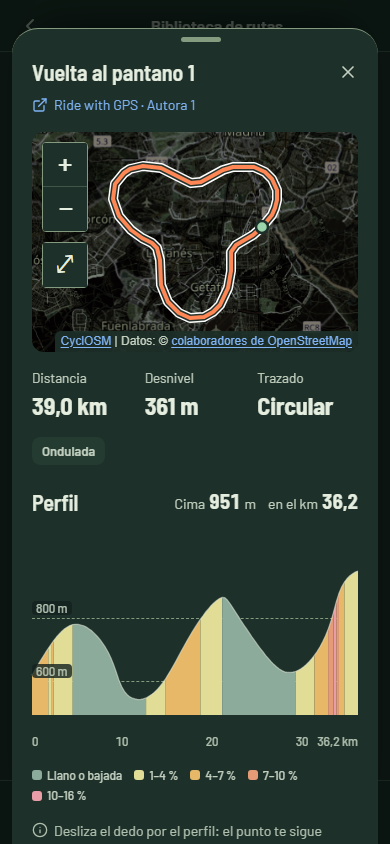
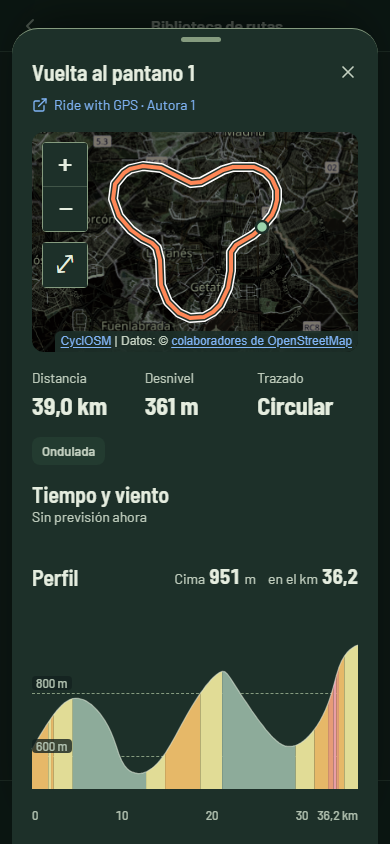
Show weather and wind on library and uploaded routes
The forecast and the wind line only appeared on the loops proposed in
Rutas. The detail of a shared-library route and of a route uploaded from
Wikiloc or another source now show the day and hour pickers, the forecast
at the route start and how much of the route has head, tail and cross
wind. As in Rutas, the forecast service only gets the start rounded to
two decimals.

E2e specs no longer reach the forecast service unless they stub it.

Claude-Session: https://claude.ai/code/session_01Uza2j9oYkbqmSJNfc1zYBA

Changed region(s): [[0.0615, 0.6469, 0.9231, 1.0], [0.0615, 0.5545, 0.6462, 0.6161], [0.6769, 0.5853, 0.9231, 0.6161]]

diff --git a/src/ui/pages/BibliotecaRutas.tsx b/src/ui/pages/BibliotecaRutas.tsx
@@ -15,6 +15,7 @@ import { loadSettings } from '../../settings/settings';
 import { Field } from '../components/Field';
 import { Page } from '../components/Page';
 import { RideMap } from '../components/RideMap';
+import { useRideWeather, WeatherRow, WindLine } from '../routes/WeatherRow';
 import { SegmentedControl } from '../components/SegmentedControl';
 import { Sheet } from '../components/Sheet';
 import { CommonLibrary } from '../library/CommonLibrary';
@@ -52,6 +53,7 @@ export function BibliotecaRutas() {
   const [editKind, setEditKind] = useState<RoadEdit['kind']>('extend');
   const [deleteOpen, setDeleteOpen] = useState(false);
   const [view, setView] = useState<'mis' | 'comun' | null>(null);
+  const weather = useRideWeather(draft?.points[0] ?? null);
   const abort = useRef<AbortController | null>(null);
   const alive = useRef(true);
   const [loadAttempt, setLoadAttempt] = useState(0);
@@ -197,6 +199,9 @@ export function BibliotecaRutas() {
         {draft.sourceUrl ? <a className="btn btn--ghost btn--wrap" href={draft.sourceUrl} target="_blank" rel="noopener noreferrer">Origen: {referenceSite(draft.sourceUrl) === 'wikiloc' ? 'Wikiloc' : 'enlace'}{draft.author ? ` · ${draft.author}` : ''}</a> : draft.author && <p className="help">Autor: {draft.author}</p>}
         <RideMap points={draft.points} label="Mapa de tu ruta de referencia" interactive />
         <ProfileSvg profile={profile} label="Perfil de la ruta importada" axis height={100} />
+        {/* Tiempo en el inicio de la ruta (punto redondeado, como en Rutas) y cómo pega el viento en ella. */}
+        <WeatherRow weather={weather} />
+        <WindLine points={draft.points} weather={weather.hour} />
         <button type="button" className="btn btn--primary btn--block" onClick={download} disabled={busy}><Download className="ic" aria-hidden="true" />Exportar GPX actual</button>
         <SendToGarmin route={draft} />
         {account && <Link className="btn btn--secondary btn--block" to={`/retos/nuevo?ruta=${encodeURIComponent(draft.id)}`}><Swords className="ic" aria-hidden="true" />Retar con esta ruta</Link>}

diff --git a/src/ui/library/CatalogDetail.tsx b/src/ui/library/CatalogDetail.tsx
@@ -17,6 +17,7 @@ import { downloadText } from '../routes/sendGpx';
 import { formatKm, formatMeters } from '../format';
 import { Download, Folder } from '../icons';
 import { OriginLink } from './CatalogCard';
+import { useRideWeather, WeatherRow, WindLine } from '../routes/WeatherRow';
 
 /** Rutas ya descargadas en esta sesión, por id. */
 const cache = new Map<string, LibraryDetail>();
@@ -76,6 +77,7 @@ function DetailBody({ route, account, saved, onSaved }: { route: CatalogRoute; a
   const detail = load.state === 'ready' ? load.detail : null;
 
   const points = useMemo<LatLng[]>(() => detail ? detail.line.map(([lng, lat]) => ({ lat, lng })) : [], [detail]);
+  const weather = useRideWeather(points[0] ?? null);
   const track = useMemo<TrackPoint[]>(() => detail && detail.line.every(p => p.length === 3) ? detail.line.map(([lng, lat, ele], t) => ({ t, lat, lng, ele })) : [], [detail]);
   const parsed = useMemo(() => detail ? toParsedReference({ ...detail, passM: 0 }) : null, [detail]);
   const terrain = terrainFeel(route);
@@ -113,6 +115,14 @@ function DetailBody({ route, account, saved, onSaved }: { route: CatalogRoute; a
           {terrain ? <Chip>{terrain}</Chip> : null}
           {route.unpavedPct !== null ? <Chip>{route.unpavedPct < 1 ? 'Asfalto' : `${Math.round(route.unpavedPct)} % sin asfaltar`}</Chip> : null}
         </div>
+      ) : null}
+      {/* El tiempo en el inicio de la ruta y cómo pega el viento en este recorrido. */}
+      {points.length >= 2 ? (
+        <section className="lib-weather" aria-label="Tiempo y viento">
+          <h3 className="section-title">Tiempo y viento</h3>
+          <WeatherRow weather={weather} />
+          <WindLine points={points} weather={weather.hour} />
+        </section>
       ) : null}
       {detail && track.length >= 2 ? <ElevationProfile points={track} onCursor={onCursor} heading={<h3 className="section-title">Perfil</h3>} /> : null}
       {load.state === 'loading' ? <Skeleton variant="box" height={96} /> : null}

diff --git a/tests/commonLibrary.test.tsx b/tests/commonLibrary.test.tsx
@@ -11,6 +11,8 @@ import { squareRow } from './fixtures/libraryZone';
 import { clearCatalogCache } from '../src/ui/library/CommonLibrary';
 import { clearDetailCache } from '../src/ui/library/CatalogDetail';
 
+// Sin red en las pruebas: la previsión falla en silencio y la fila dice «Sin previsión ahora».
+vi.mock('../src/weather/forecast', async (importOriginal) => ({ ...(await importOriginal<typeof import('../src/weather/forecast')>()), fetchForecast: vi.fn().mockRejectedValue(new Error('sin red')) }));
 vi.mock('../src/ui/components/RideMap', () => ({ RideMap: () => <div>Mapa sintético</div> }));
 vi.mock('../src/ui/components/ElevationProfile', () => ({ ElevationProfile: () => <div>Perfil sintético</div> }));
 vi.mock('../src/ui/components/StartPointCanvas', () => ({ StartPointCanvas: () => <div>Punto sintético</div> }));
@@ -110,6 +112,9 @@ describe('Biblioteca común', () => {
     const dialog = await screen.findByRole('dialog', { name: 'Vuelta al pantano' });
     expect(await within(dialog).findByText('Mapa sintético')).toBeInTheDocument();
     expect(within(dialog).getByText('Perfil sintético')).toBeInTheDocument();
+    // El tiempo y el viento de la ruta: sin previsión lo dice y no rompe el detalle.
+    const weather = within(dialog).getByRole('region', { name: 'Tiempo y viento' });
+    expect(await within(weather).findByText('Sin previsión ahora')).toBeInTheDocument();
     expect(within(dialog).getByRole('link', { name: /Ride with GPS · Ana/ })).toHaveAttribute('href', rows[0].url);
     expect(invoke).toHaveBeenCalledWith('route-sources', expect.objectContaining({ body: { source: 'library', kind: 'library-route', id: rows[0].id } }));
     await user.click(within(dialog).getByRole('button', { name: 'Guardar en Mis rutas' }));

diff --git a/tests/bibliotecaRutas.test.tsx b/tests/bibliotecaRutas.test.tsx
@@ -7,6 +7,8 @@ import { BibliotecaRutas } from '../src/ui/pages/BibliotecaRutas';
 import type { SupabaseClient, User } from '@supabase/supabase-js';
 import { AccountContext } from '../src/auth/AccountBoundary';
 
+// Sin red en las pruebas: la previsión falla en silencio y la fila dice «Sin previsión ahora».
+vi.mock('../src/weather/forecast', async (importOriginal) => ({ ...(await importOriginal<typeof import('../src/weather/forecast')>()), fetchForecast: vi.fn().mockRejectedValue(new Error('sin red')) }));
 vi.mock('../src/ui/components/RideMap', () => ({ RideMap: () => <div>Mapa sintético</div> }));
 vi.mock('../src/ui/components/StartPointCanvas', () => ({ StartPointCanvas: () => <div>Punto sintético</div> }));
 

diff --git a/e2e/accountFixture.ts b/e2e/accountFixture.ts
@@ -12,6 +12,8 @@ export const TEST_SESSION = { access_token: `${jwtPart({ alg: 'HS256', typ: 'JWT
 export const test = base.extend({
   page: async ({ page }, use) => {
     await page.route('https://*.supabase.co/**', route => route.abort());
+    // La previsión del tiempo tampoco sale a la red: cada spec que la necesita registra después su propia respuesta.
+    await page.route('https://api.open-meteo.com/**', route => route.abort());
     await page.addInitScript(({ key, session }) => localStorage.setItem(key, JSON.stringify(session)), { key: AUTH_KEY, session: TEST_SESSION });
     await use(page);
   },
